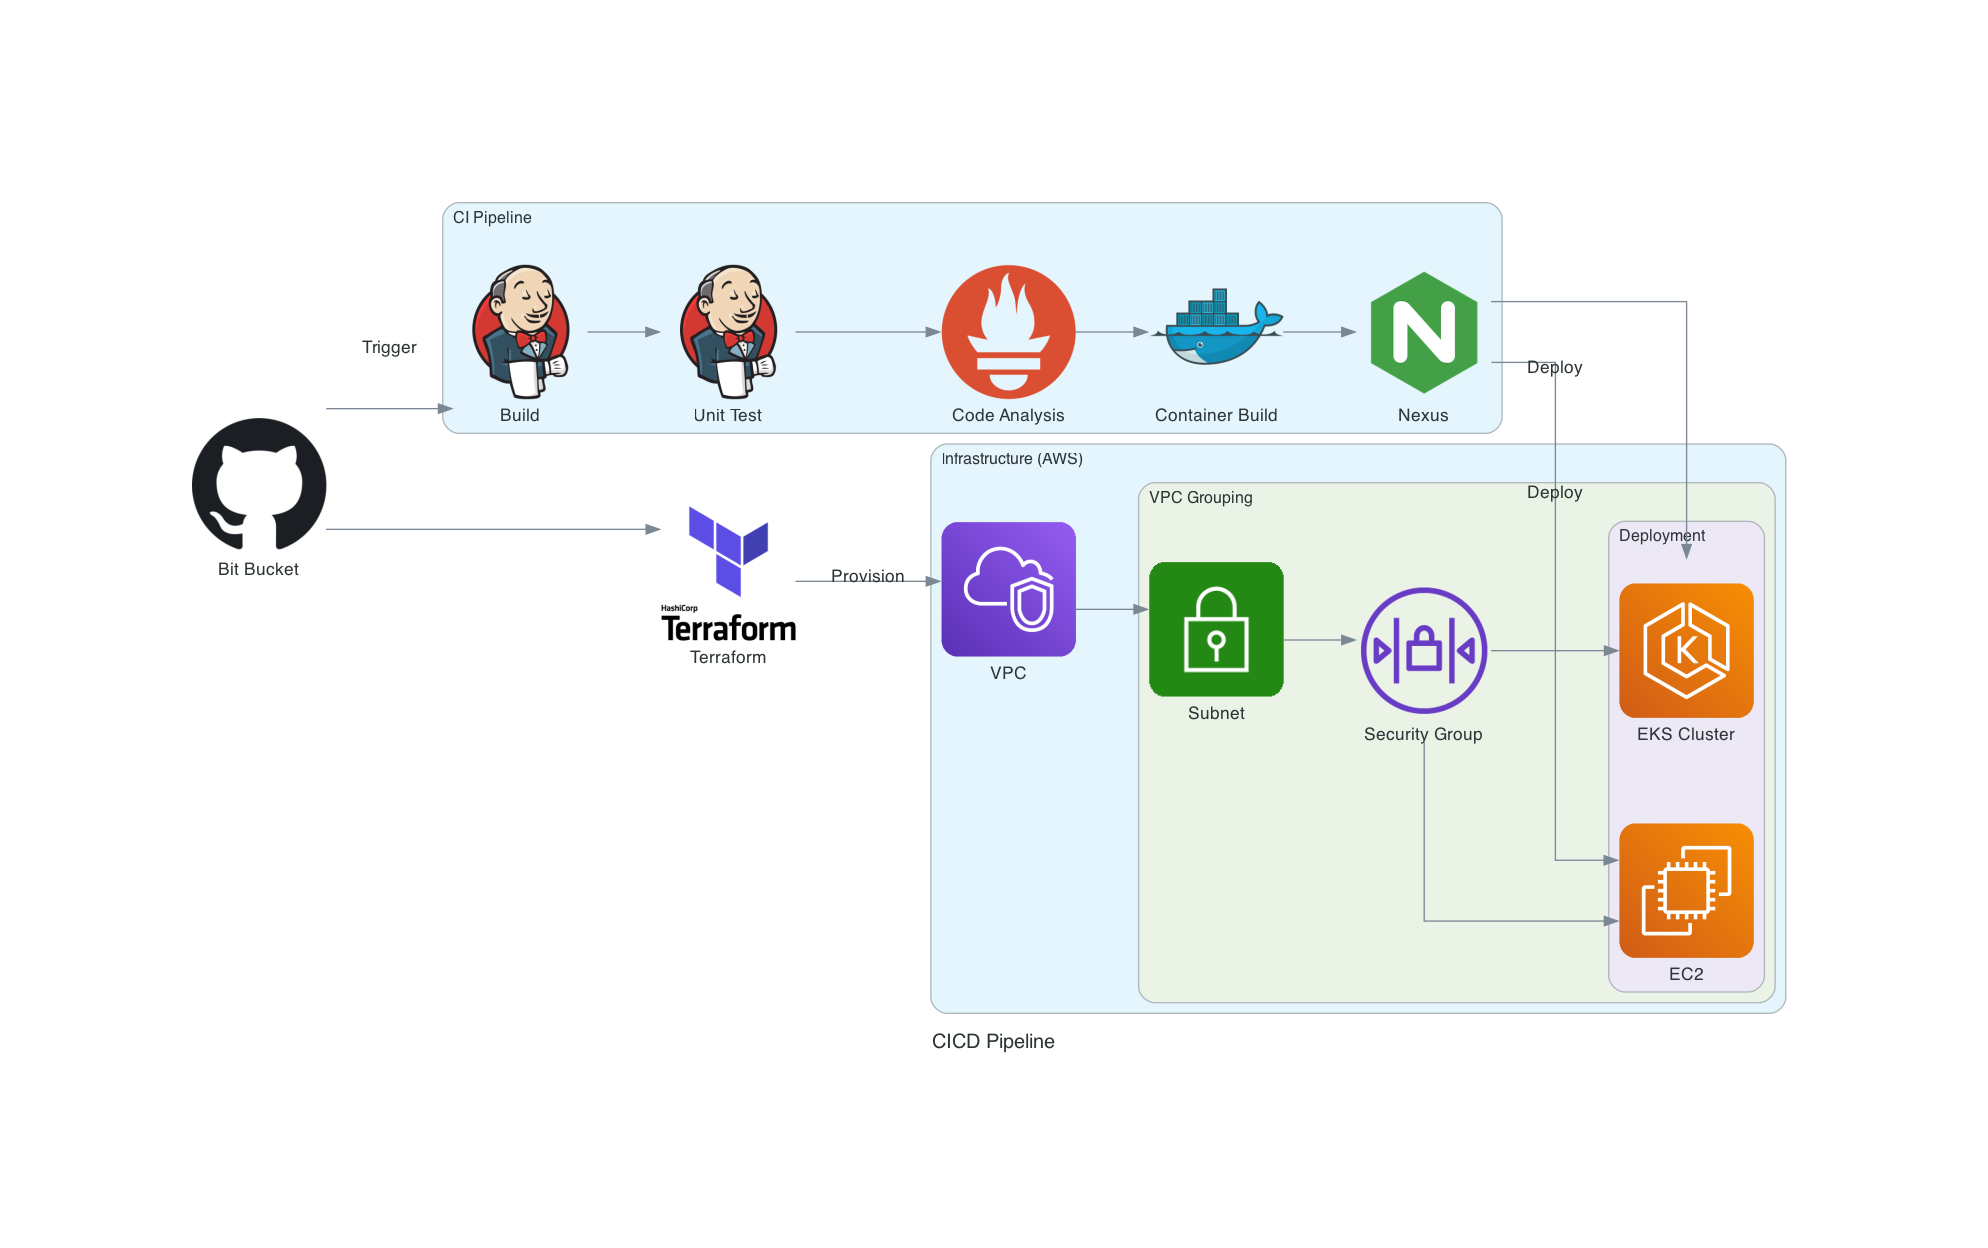
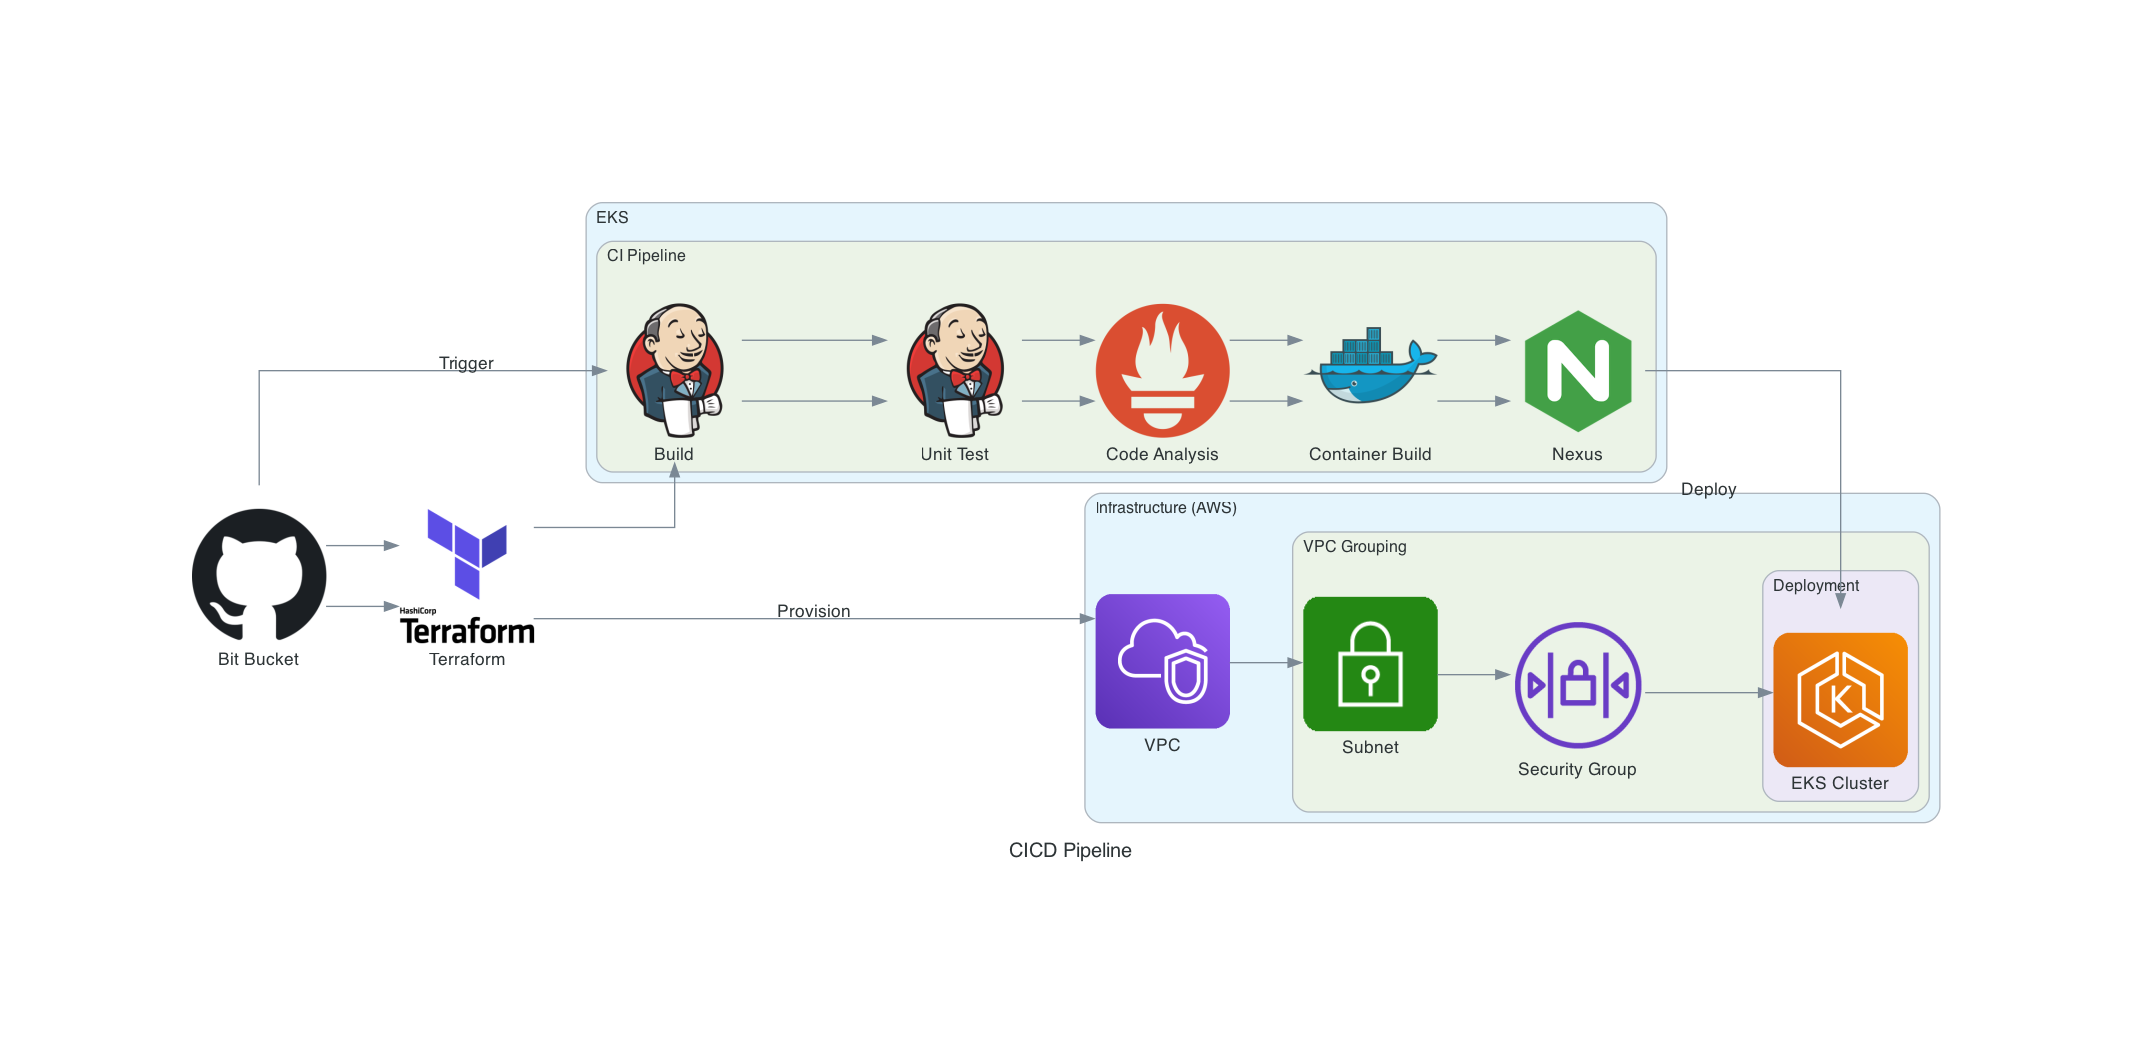
added new diagrams

Changed region(s): [[0.0624, 0.1561, 0.9044, 0.843], [0.1871, 0.4683, 0.2495, 0.6244], [0.3431, 0.562, 0.4054, 0.5932]]

diff --git a/diagrams/cicd-on-eks.py b/diagrams/cicd-on-eks.py
@@ -8,16 +8,17 @@ from diagrams.aws.compute import EC2, EKS
 from diagrams.aws.network import VPC, PublicSubnet as Subnet, Nacl as SecurityGroup
 from diagrams.onprem.iac import Terraform
 
-with Diagram("Platform Automation View", show=True, direction="LR"):
+with Diagram("CICD Pipeline with Terraform and EKS", show=False, direction="LR"):
     bitbucket = Github("Bit Bucket")
-    
-    with Cluster("EKS"):
-        with Cluster("CI Pipeline"):
-            build = Jenkins("Build")
-            unit_test = Jenkins("Unit Test")
-            code_analysis = Prometheus("Code Analysis")
-            container_build = Docker("Container Build")
-            container_push = Nginx("Nexus")
+
+    with Cluster("CI Pipeline"):
+        build = Jenkins("Build")
+        unit_test = Jenkins("Unit Test")
+        code_analysis = Prometheus("Code Analysis")
+        container_build = Docker("Container Build")
+        container_push = Nginx("Nexus")
+
+        bitbucket >> Edge(label="Trigger") >> build >> unit_test >> code_analysis >> container_build >> container_push
 
     with Cluster("Infrastructure (AWS)"):
         vpc = VPC("VPC")
@@ -25,16 +26,22 @@ with Diagram("Platform Automation View", show=True, direction="LR"):
             subnet = Subnet("Subnet")
             sg = SecurityGroup("Security Group")
             with Cluster("Deployment"):
-                # ec2 = EC2("EC2")
                 eks = EKS("EKS Cluster")
-                # sg >> ec2
                 sg >> eks
 
     terraform = Terraform("Terraform")
     bitbucket >> terraform >> Edge(label="Provision") >> vpc >> subnet >> sg
-    bitbucket >> terraform >> build
-    build >> unit_test >> code_analysis >> container_build >> container_push
-    bitbucket >> Edge(label="Trigger") >> build >> unit_test >> code_analysis >> container_build >> container_push
-
-    # container_push >> Edge(label="Deploy") >> ec2
     container_push >> Edge(label="Deploy") >> eks
+
+    # Representing Terraform code for CI/CD infrastructure creation
+    with Cluster("Terraform Code"):
+        tf_vpc = Terraform("VPC")
+        tf_subnet = Terraform("Subnet")
+        tf_sg = Terraform("Security Group")
+        tf_eks = Terraform("EKS Cluster")
+        tf_jenkins = Terraform("Jenkins")
+        tf_nexus = Terraform("Nexus")
+
+        terraform >> tf_vpc >> tf_subnet >> tf_sg >> tf_eks
+        terraform >> tf_jenkins
+        terraform >> tf_nexus

diff --git a/diagrams/cicd copy.py b/diagrams/cicd copy.py
@@ -8,7 +8,7 @@ from diagrams.aws.compute import EC2, EKS
 from diagrams.aws.network import VPC, PublicSubnet as Subnet, Nacl as SecurityGroup
 from diagrams.onprem.iac import Terraform
 
-with Diagram("Platform Automation View", show=True, direction="LR"):
+with Diagram("CICD Pipeline", show=False, direction="LR"):
     bitbucket = Github("Bit Bucket")
     
     with Cluster("EKS"):
